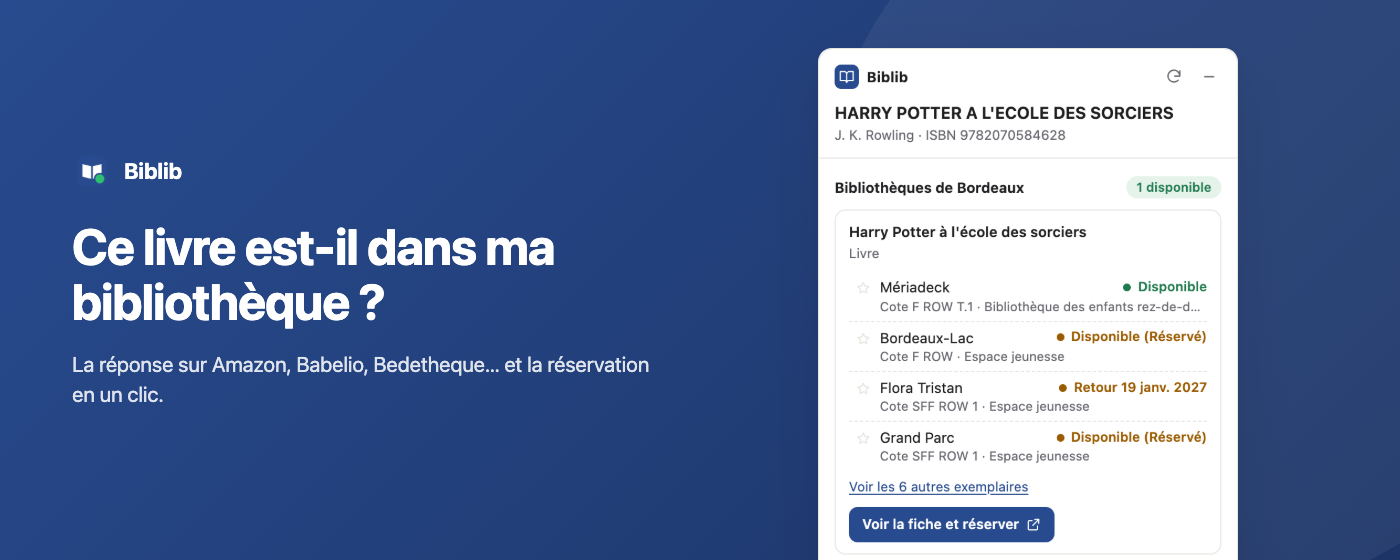
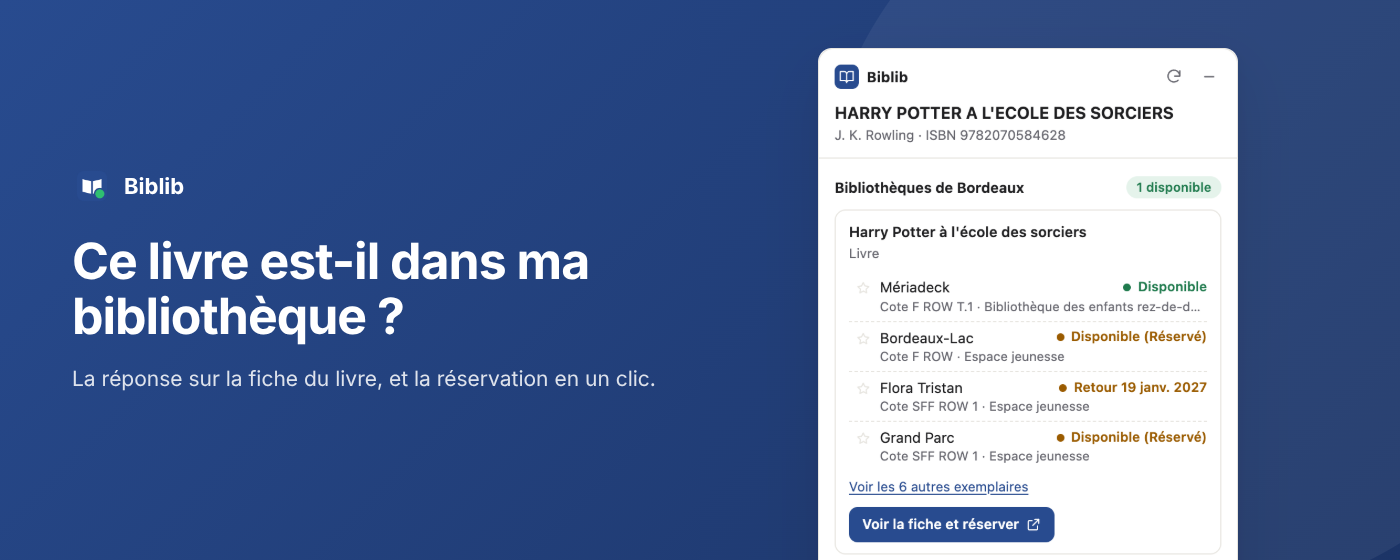
Fiche Store : retire les listes de sites et de villes
Le Chrome Web Store a refusé la fiche pour « spam dans les mots clés »
(énumération des sites de livres dans la description). La description,
les captures 1 et 4 et la bannière ne listent plus ni sites ni villes ;
le générateur de visuels est aligné.

Les trois images ont été retouchées à partir des originaux (texte de
gauche réécrit avec la même feuille de style, police Inter) : les
regénérer sur Mac avec tools/store-assets.mjs pour retrouver la police
système des autres captures.

Claude-Session: https://claude.ai/code/session_01FGUasj8fsTvXKnB98AC1e7

Changed region(s): [[0.0307, 0.3946, 0.43, 0.6071], [0.0307, 0.6375, 0.4607, 0.7286], [0.0614, 0.2732, 0.1536, 0.3643]]

diff --git a/store/fiche.md b/store/fiche.md
@@ -34,12 +34,12 @@ Sur la fiche d'un livre (Amazon, Babelio…), voyez s'il est dans vos bibliothè
 
 **Langue** : Français
 
-**Description** :
+**Description** (pas d'énumération de sites ni de villes : un premier envoi a été refusé pour « spam dans les mots clés » à cause de la liste des sites de livres) :
 
 ```
 Ce livre est-il à la bibliothèque ? Biblib vous répond directement sur la fiche du livre, sans quitter la page.
 
-Sur Amazon, Babelio, Bedetheque, Fnac, Decitre, Mollat, Leslibraires.fr, Goodreads et d'autres sites de livres, une pastille indique en quelques secondes si le livre est dans vos bibliothèques municipales, s'il est disponible et dans quelle annexe. Un clic ouvre la notice du catalogue pour le réserver avec votre compte lecteur.
+Chez votre libraire en ligne ou sur votre site de lecture habituel, une pastille indique en quelques secondes si le livre est dans vos bibliothèques municipales, s'il est disponible et dans quelle annexe. Un clic ouvre la notice du catalogue pour le réserver avec votre compte lecteur.
 
 CE QUE BIBLIB VOUS MONTRE
 • Disponible, emprunté, en transit, date de retour prévue : annexe par annexe, avec la cote et le rayon.
@@ -47,8 +47,8 @@ CE QUE BIBLIB VOUS MONTRE
 • Vos bibliothèques favorites : une étoile sur votre annexe, elle passe en premier et la pastille vous dit si le livre y est.
 • Une recherche manuelle par ISBN ou par titre depuis l'icône de l'extension.
 
-13 GRANDS RÉSEAUX DE BIBLIOTHÈQUES
-Paris, Bordeaux et Bordeaux Métropole, Lyon, Marseille, Toulouse, Nice, Nantes, Montpellier, Strasbourg, Lille, Rennes (Champs Libres), Grenoble.
+VOS BIBLIOTHÈQUES
+Biblib interroge les catalogues de grands réseaux de bibliothèques publiques en France. Leur liste figure dans les réglages de l'extension : cochez ceux où vous êtes inscrit·e, Biblib n'interroge que ceux-là.
 
 VOS DONNÉES RESTENT SUR VOTRE APPAREIL
 • Aucun compte, aucun serveur Biblib, aucune statistique, aucun traceur.
@@ -62,7 +62,7 @@ POUR COMMENCER
 2. Cochez les bibliothèques où vous êtes inscrit·e.
 3. Ouvrez la fiche d'un livre sur votre site habituel.
 
-Biblib est un projet indépendant, affilié à aucune bibliothèque ni à aucun des sites cités. La disponibilité affichée est celle que publie le catalogue de chaque bibliothèque au moment de la recherche.
+Biblib est un projet indépendant, qui n'est affilié à aucune bibliothèque ni à aucun site de livres. La disponibilité affichée est celle que publie le catalogue de chaque bibliothèque au moment de la recherche.
 ```
 
 **Site officiel** : https://github.com/Bublex/biblib
